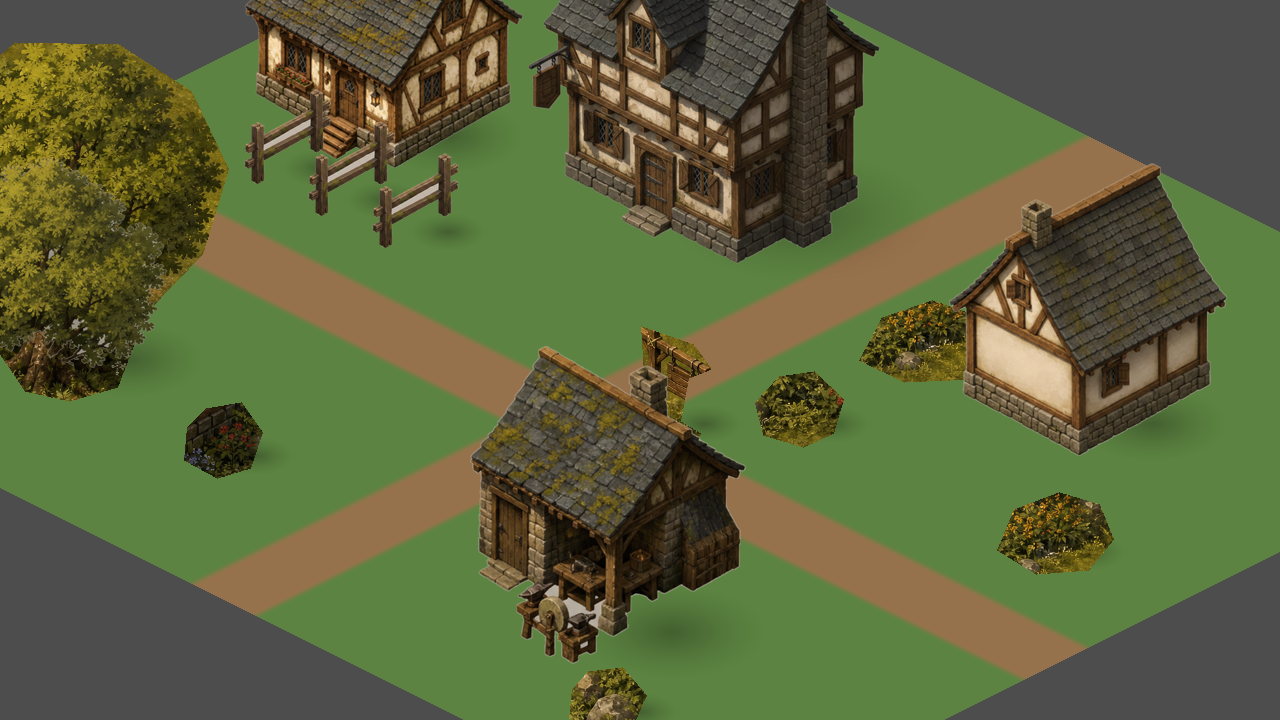
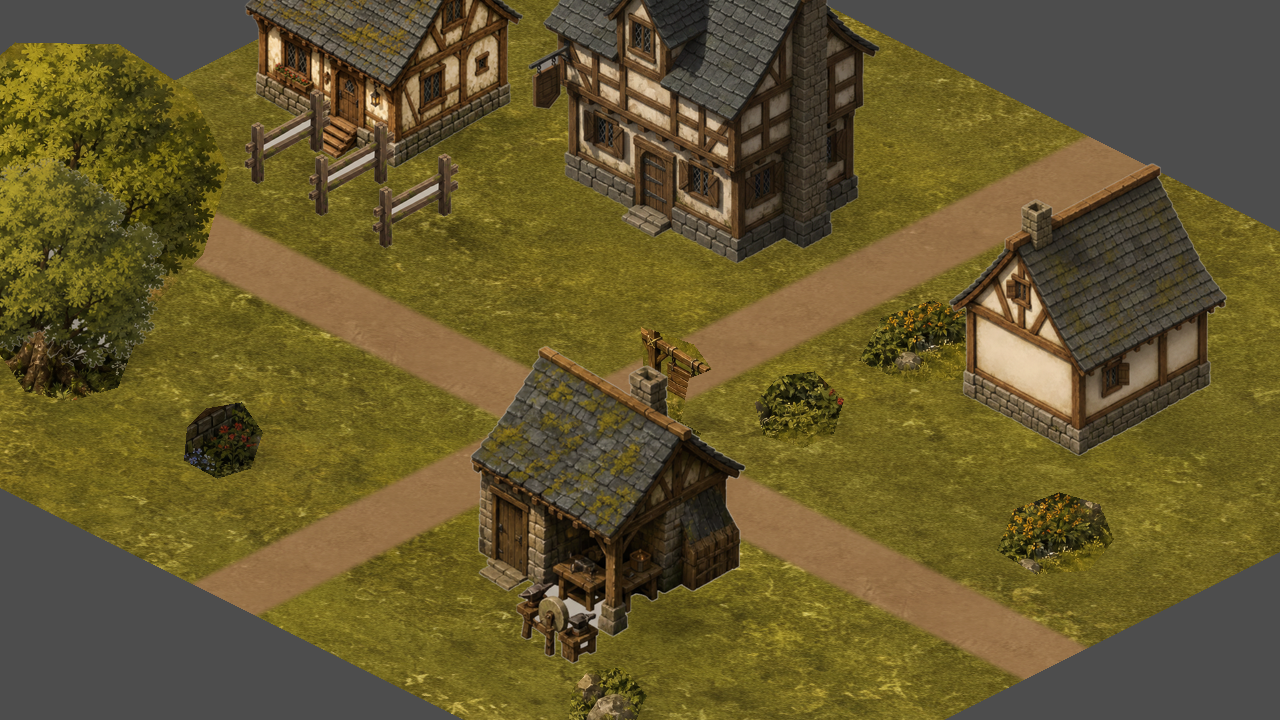
round 007 ground: switch ground sampling from per-cell tiles to district plate
Decision 010 PLATE fallback (pre-authorized 4-0): the tileable-swatch approach
failed the 8x8 zoom gate because the paid painterly field carries faint
quasi-regular structure that reads as a repeat only under high-frequency tiling.
Sampled ONCE across the district as a plate, that structure is just texture
detail, not a periodic tell.

The shader-quad pipeline is unchanged; only the ground-texture sampling
frequency changes:

- ground.gdshader: paint_uv = (cell / grid_size) * plate_repeat spans the plate
  across the district exactly once (plate_repeat = 1.0). Plate samplers switch to
  repeat_disable (UV stays in 0..1, no wrap, no tile-boundary seam). Everything
  else is untouched: the R8 lane mask reveals the dirt plate along lanes, the
  CPU-baked domain warp wobbles the lane edge, the protected unwarped lane core,
  and the separate contact-shadow layer.
- village_render.gd: bind grass_tex/dirt_tex to ground_grass_plate.png /
  ground_dirt_plate.png; GROUND_PLATE_REPEAT replaces GROUND_TILES_PER_CELL.
- manifest.json: register the two plates as ground_plate objects (native_px
  1024x1024, provenance generated) per the shared plate interface contract.
- village_export_audit.gd: the ground statics resolve check now names the two
  plates; the manifest loop additionally asserts their native_px equality.
- Provisional plates are the supervised paid painterly fields copied in from
  .pka/round007/ground-source/; integration swaps codex's real plates and
[…]

diff --git a/docs/art/village/ground-plate-note.md b/docs/art/village/ground-plate-note.md
@@ -1,0 +1,55 @@
+# Ground PLATE sampling note (round 007, decision 010 PLATE fallback)
+
+The tileable-swatch approach failed the 8x8 zoom gate three times. The last
+failure was source-structural: the generative model injects quasi-regular
+texture into any "seamless field", so no seam-only heal removes it, and that
+faint structure reads as a repeat only under high-frequency TILING. Decision 010
+pre-authorized the PLATE fallback 4-0. The shader-quad pipeline is unchanged; the
+only thing that changed is the ground-texture SAMPLING FREQUENCY: the grass/dirt
+painterly fields are now sampled ONCE across the district as a plate
+(`paint_uv = cell / grid_size * plate_repeat`), not tiled per cell. Sampled once,
+their structure is just texture detail, not a periodic tell.
+
+## Repeat count
+
+`plate_repeat = 1.0`: the plate covers the whole 16x14 district exactly once. No
+tiling, so there is NO tile-boundary seam anywhere (UV stays in 0..1 and the
+plate samplers are `repeat_disable`). Values above 1.0 re-tile the plate and can
+reintroduce a faint seam (the paint UV is not warped, only the lane mask is), so
+the default is the fewest possible repeats: one.
+
+## Source texels per screen pixel
+
+The plate is 1024x1024, sampled with `filter_linear_mipmap` + `textureGrad`.
+Like every texture in this repo it imports with Godot's default settings (no
+`.import` is committed anywhere in the project, and `project.godot` is a
+protected path, so no project-wide mipmap default is set here), which means mips
+are off and the sampler falls back to base-level linear today; the captures
+below were rendered under exactly that default regime, so they match a clean
+checkout. The `filter_linear_mipmap` declaration is future-proof: it uses a mip
+chain the day one exists. Its U axis runs along the district's cell-x edge (16 cells,
+projected length `sqrt(1024^2 + 512^2) ~= 1145 px` at 1x) and its V axis along the
+cell-y edge (14 cells, `sqrt(896^2 + 448^2) ~= 1002 px` at 1x). Density scales
+linearly with zoom:
+
+| zoom | screen px along U / V | source texels/screen-px | read |
+| ---- | --------------------- | ----------------------- | ---- |
+| 0.5x | ~573 / ~501           | ~1.79 / ~2.04           | minified ~2x, clean on this low-frequency painterly field (see 0.5x capture) |
+| 1x   | ~1145 / ~1002         | ~0.89 / ~1.02           | ~1:1, essentially native |
+| 2x   | ~2290 / ~2004         | ~0.45 / ~0.51           | ~2 screen px per source texel, mild painterly softening, no aliasing |
+
+At 2x each source texel covers roughly two screen pixels, so the field softens
+slightly but stays painterly (see `village-inn-green-2x.png`); there is no repeat
+structure and no seam to expose. If integration decides 2x is too soft, bumping
+`plate_repeat` to ~2.0 restores ~1:1 density at 2x at the cost of tiling the plate
+2x2 (four copies across the whole district, still far below the old 16x14 swatch
+tiling); prefer leaving it at 1.0 unless QA flags softness.
+
+## Provisional plates
+
+`assets/village/ground_grass_plate.png` and `ground_dirt_plate.png` are, on this
+branch, copies of the supervised paid painterly fields at
+`.pka/round007/ground-source/source-{grass,dirt}.png` (1024x1024, provenance
+generated). Integration swaps codex's real `ground_plate` assets over them and
+re-runs this same honest gate. Captures here are representative because they use
+the real paid fields, not flat placeholders.